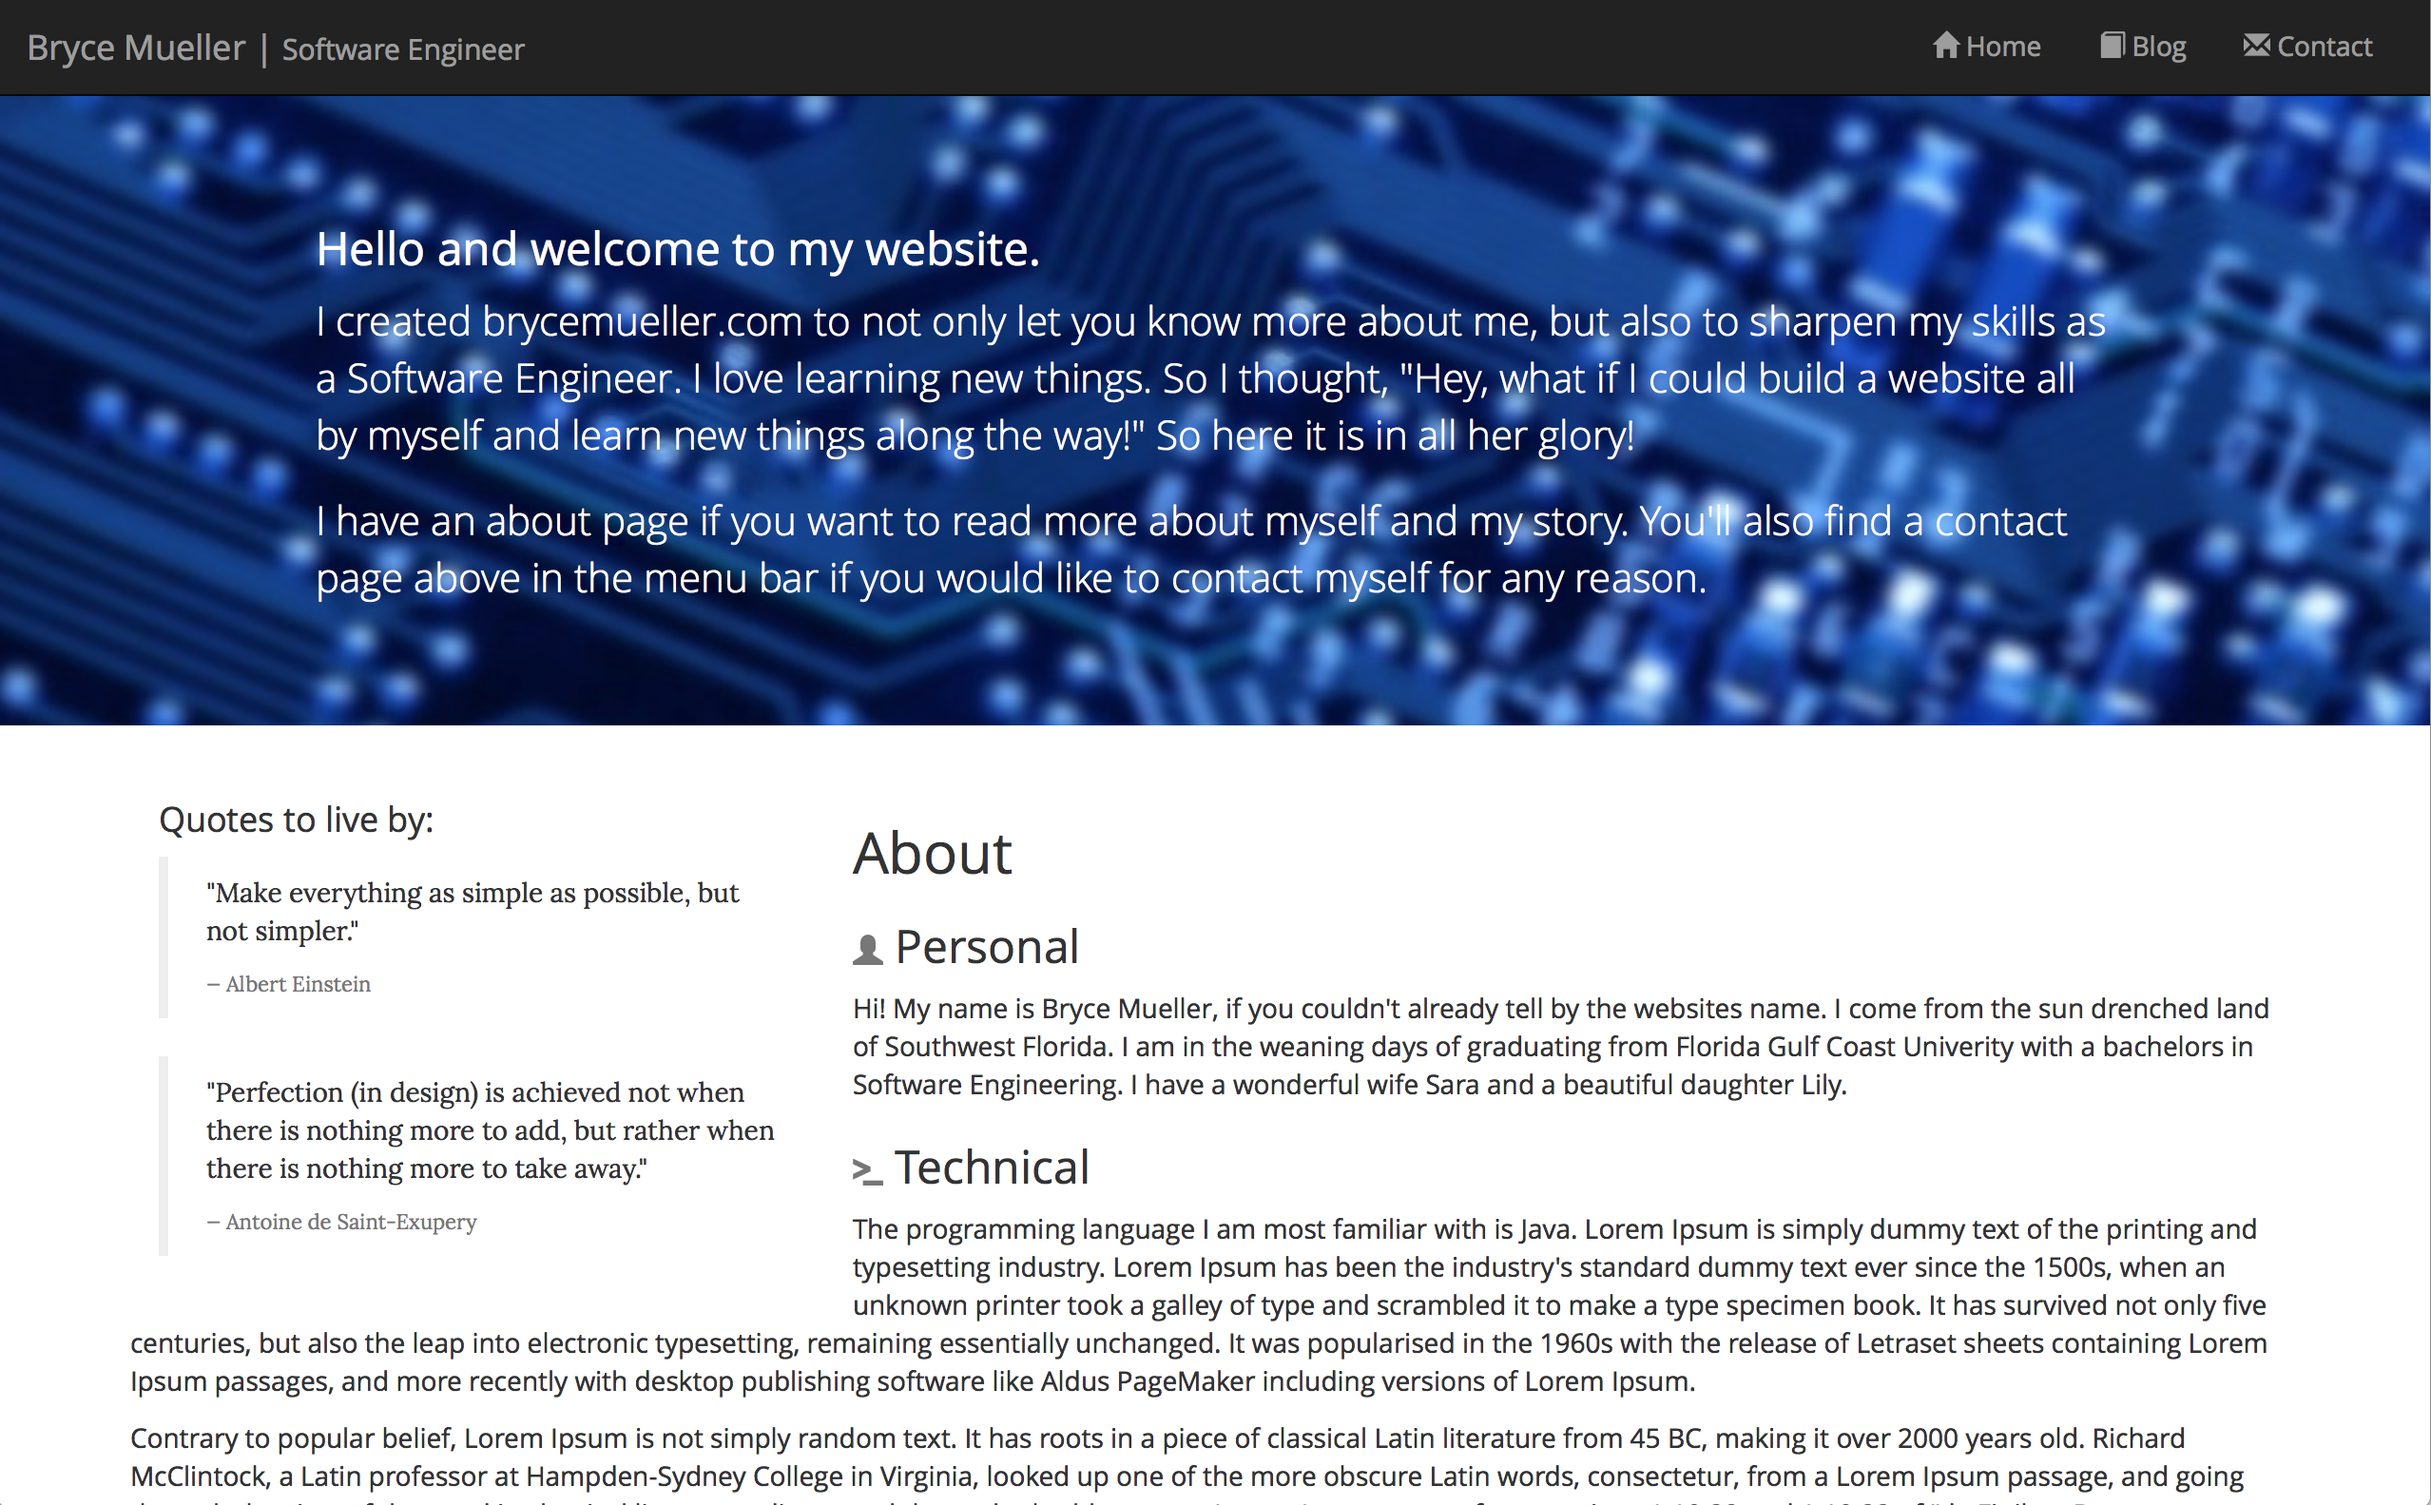
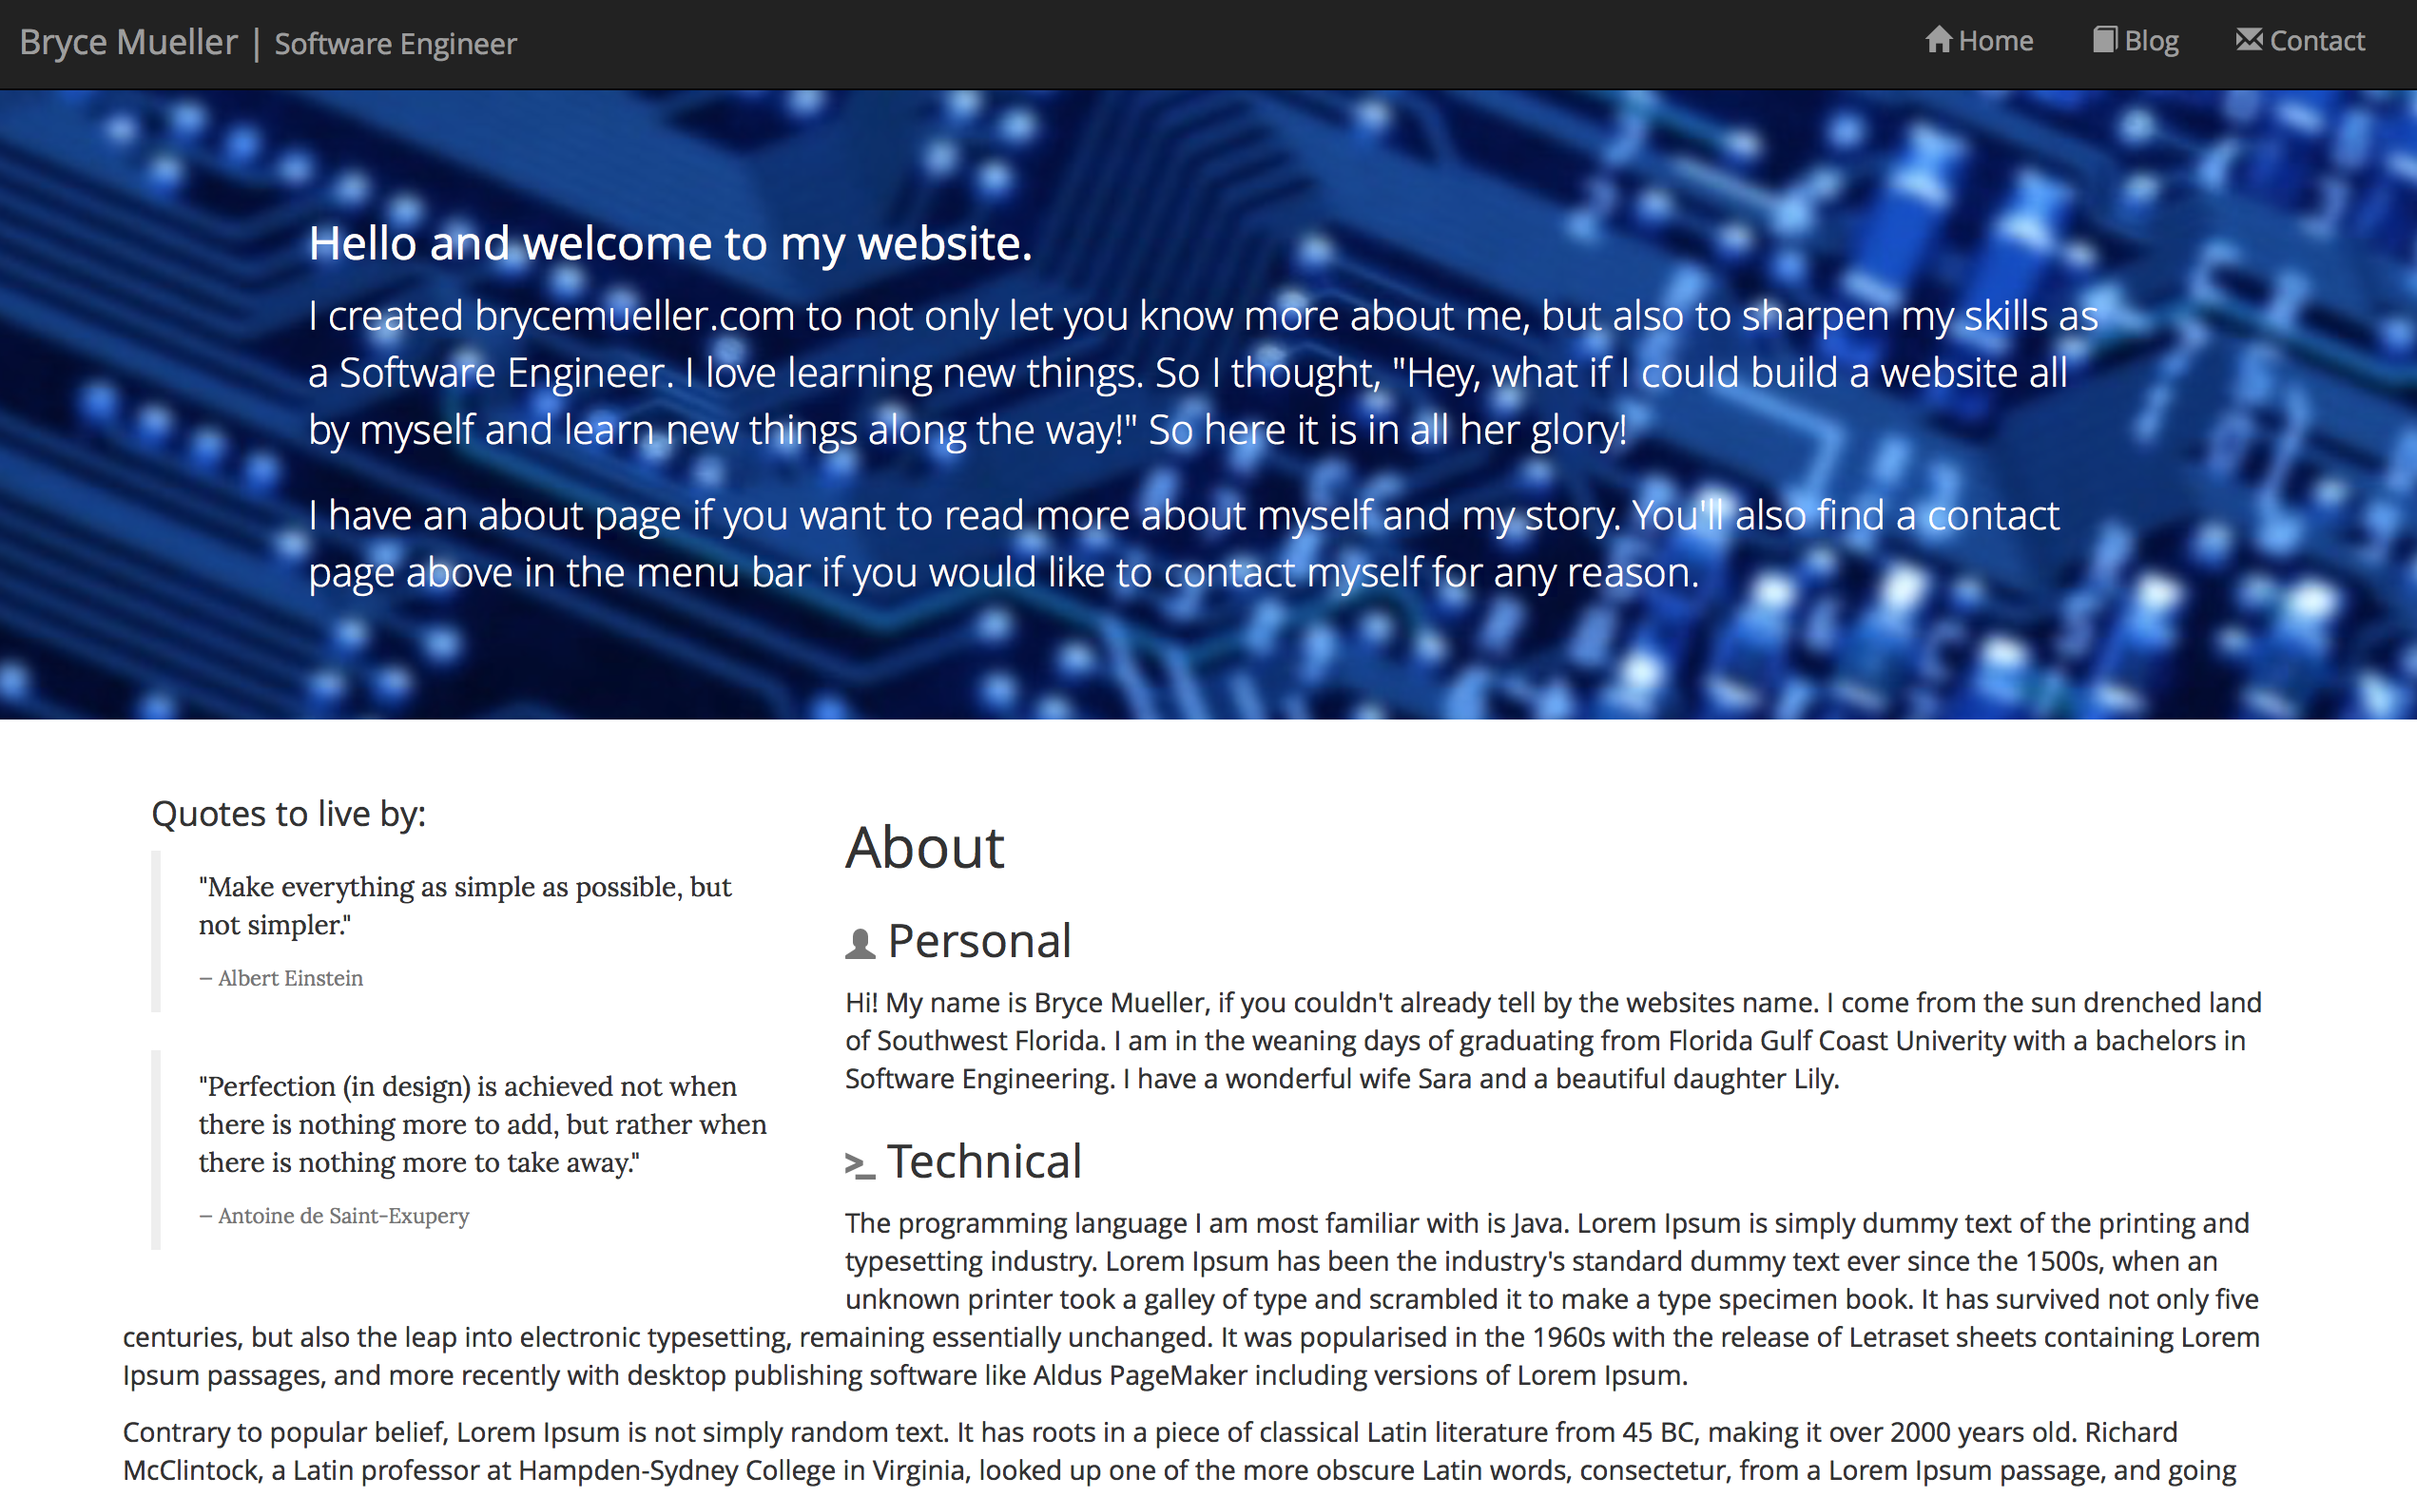
Added profile picture back to homepage in a different spot

diff --git a/index.html b/index.html
@@ -6,9 +6,6 @@ title: Bryce Mueller | Home Page
 <div class="jumbotron" id="splash">
     <div class="container">
         <div class="row">
-            <!--<div class="col-md-4" id="profilePic" >-->
-                <!--<img class="profilePic img-responsive" src="assets/Profile-pic-small.jpeg" alt="Profile image">-->
-            <!--</div>-->
             <div class="col-md-10 col-md-offset-1">
             <h3>Hello and welcome to my website.</h3>
             <p>I created brycemueller.com to not only let you know more about me, but also to sharpen my skills as a Software Engineer. I love learning new things. So I thought, "Hey, what if I could build a website all by myself and learn new things along the way!" So here it is in all her glory!</p>
@@ -33,7 +30,7 @@ title: Bryce Mueller | Home Page
         </div><!--/#quote-->
             <h2>About</h2>
             <h3><small><span class="glyphicon glyphicon-user"></span></small> Personal</h3>
-            <p>Hi! My name is Bryce Mueller, if you couldn't already tell by the websites name. I come from the sun drenched land of Southwest Florida. I am in the weaning days of graduating from Florida Gulf Coast Univerity with a bachelors in Software Engineering. I have a wonderful wife Sara and a beautiful daughter Lily.  </p>
+            <p>Hi! My name is Bryce Mueller, if you couldn't already tell by the websites name. I come from the sun drenched land of Southwest Florida. I am in the weaning days of graduating from Florida Gulf Coast Univerity with a bachelors in Software Engineering. I have a wonderful wife Sara and a beautiful daughter Lily. <img class="profilePic img-responsive" src="assets/Profile-pic-small.jpeg" alt="Profile image"> </p>
             <h3><small><span class="glyphicon glyphicon-console" aria-hidden="true"></span></small> Technical</h3>
             <p>The programming language I am most familiar with is Java. Lorem Ipsum is simply dummy text of the printing and typesetting industry. Lorem Ipsum has been the industry's standard dummy text ever since the 1500s, when an unknown printer took a galley of type and scrambled it to make a type specimen book. It has survived not only five centuries, but also the leap into electronic typesetting, remaining essentially unchanged. It was popularised in the 1960s with the release of Letraset sheets containing Lorem Ipsum passages, and more recently with desktop publishing software like Aldus PageMaker including versions of Lorem Ipsum.</p>
             <p>Contrary to popular belief, Lorem Ipsum is not simply random text. It has roots in a piece of classical Latin literature from 45 BC, making it over 2000 years old. Richard McClintock, a Latin professor at Hampden-Sydney College in Virginia, looked up one of the more obscure Latin words, consectetur, from a Lorem Ipsum passage, and going through the cites of the word in classical literature, discovered the undoubtable source. Lorem Ipsum comes from sections 1.10.32 and 1.10.33 of "de Finibus Bonorum et Malorum" (The Extremes of Good and Evil) by Cicero, written in 45 BC. This book is a treatise on the theory of ethics, very popular during the Renaissance. The first line of Lorem Ipsum, "Lorem ipsum dolor sit amet..", comes from a line in section 1.10.32.</p>

diff --git a/css/custom_styles.css b/css/custom_styles.css
@@ -26,7 +26,7 @@ body {
     position: relative;
 }
 
-hr {
+.footer hr {
     margin-top: 0px;
     margin-bottom: 0px;
 }
@@ -60,11 +60,8 @@ img {
 
 .profilePic {
     display: block;
-    margin-right: auto;
-    margin-left: auto;
-    padding-top: 5%;
-    padding-bottom: 5%;
-    max-width: 80%;
+    float: right;
+    max-height: 5em;
     -webkit-border-radius: 6px;
     -moz-border-radius: 6px;
     border-radius: 6px;
